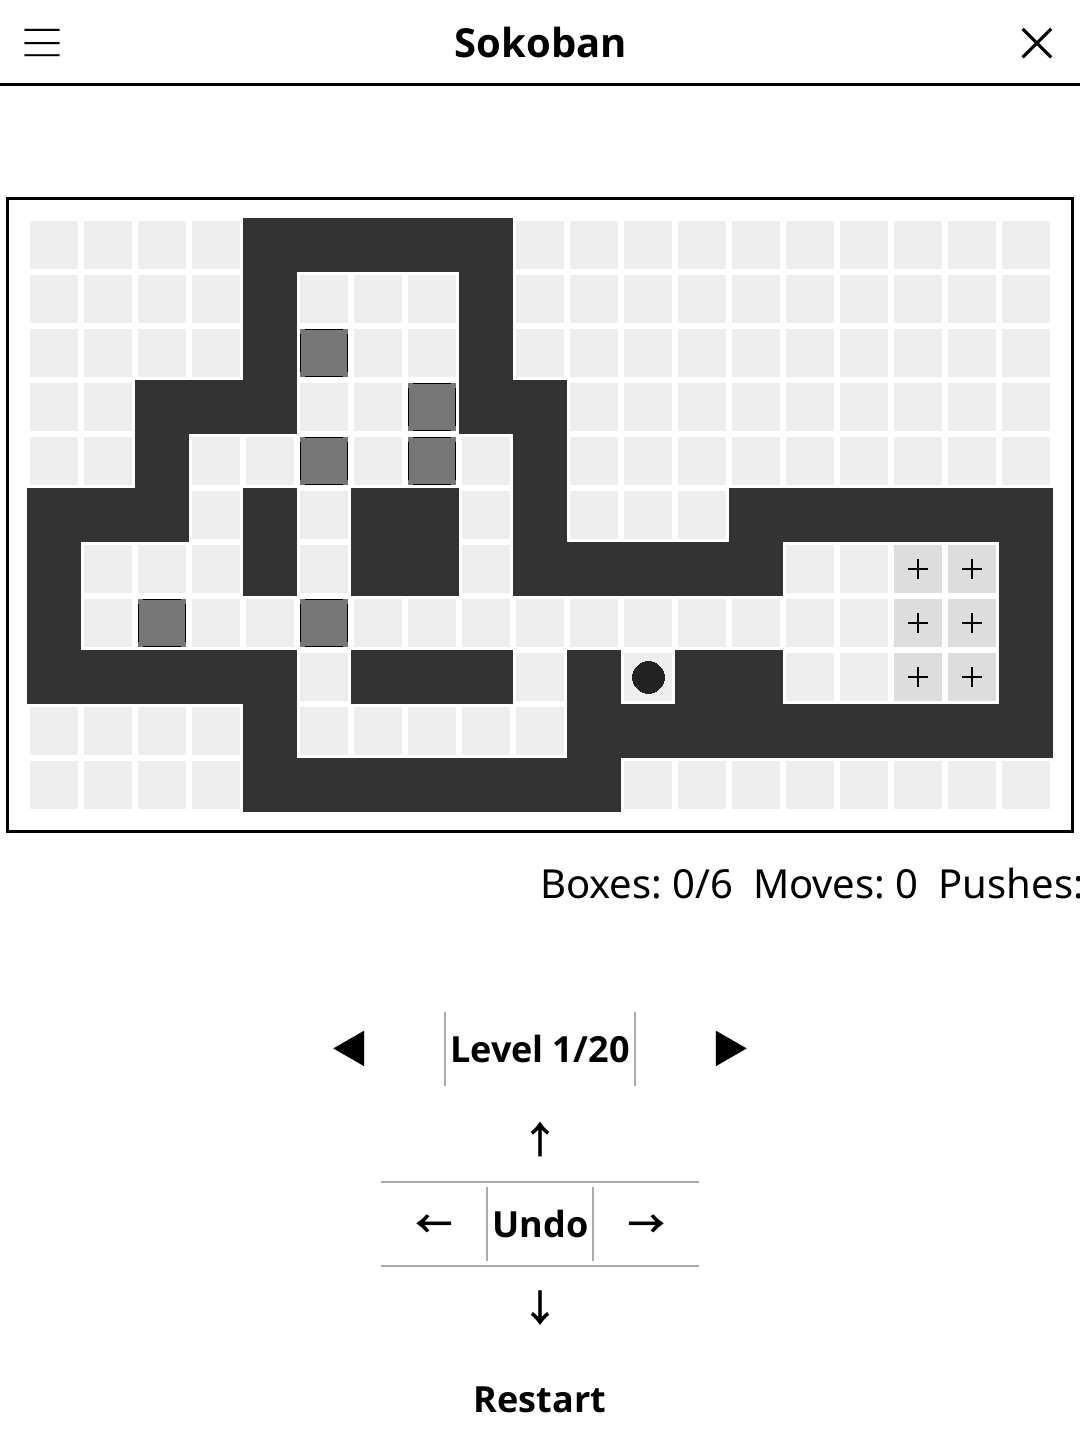
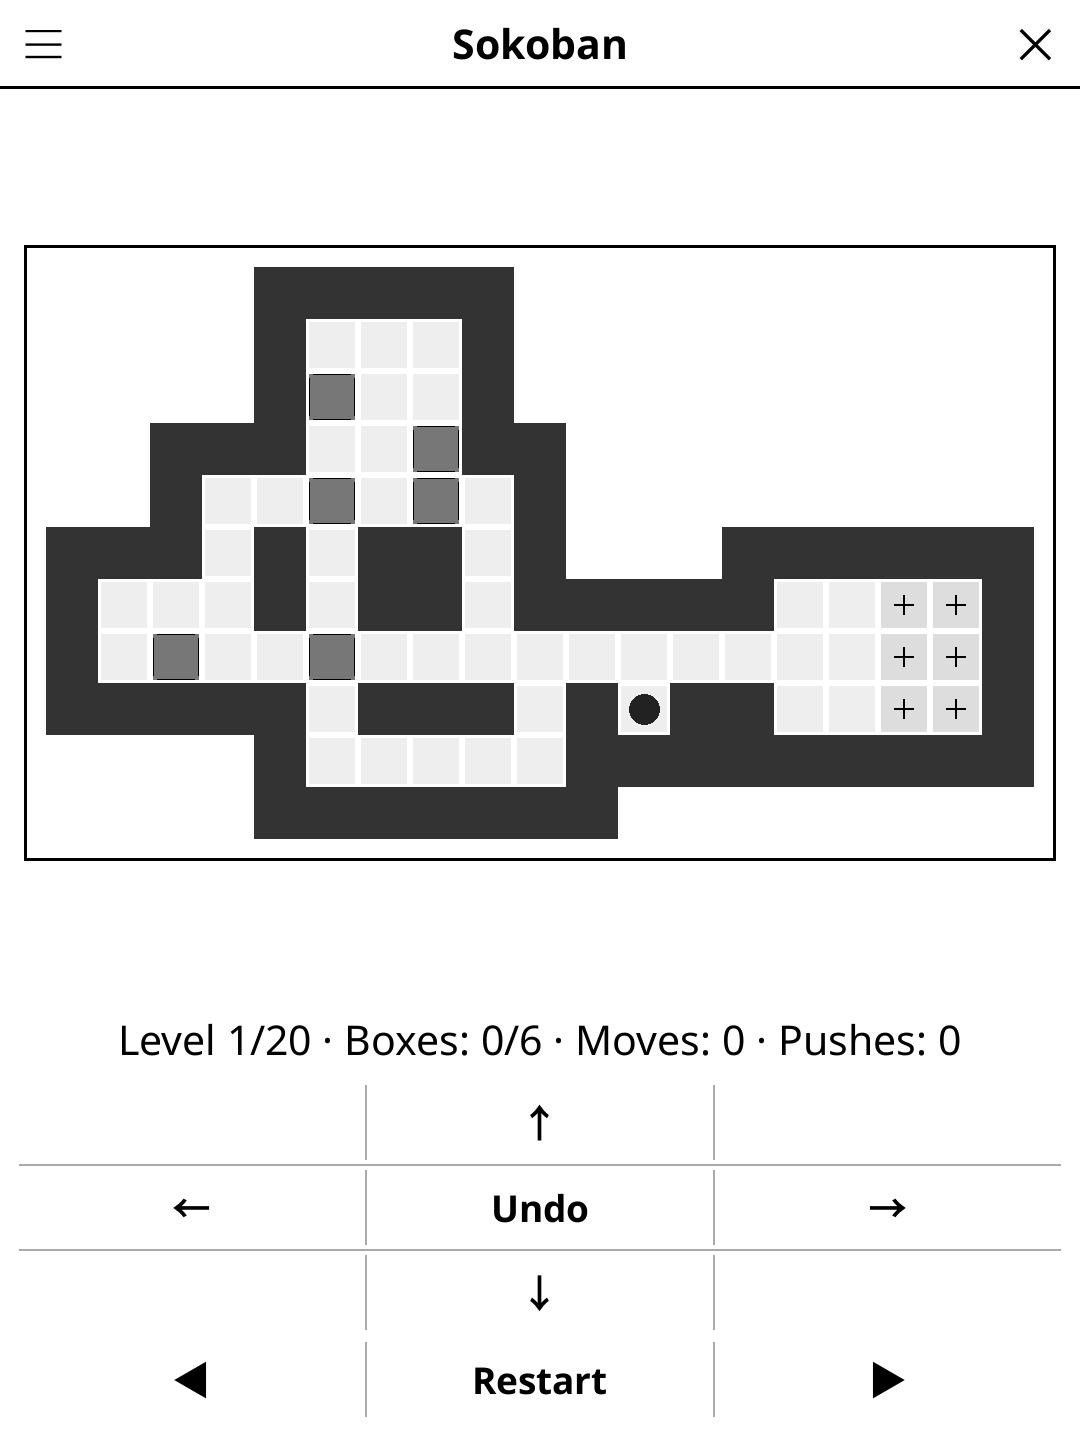
release: 1.2.0 -- redesigned screen, harmonised menu, New game at round end
Screen redesign (full-width action bar, unified pad, status line, larger
board), harmonised title-bar menu, and a "New game" button once the round
is over. See CHANGELOG.md.

diff --git a/CHANGELOG.md b/CHANGELOG.md
@@ -6,6 +6,26 @@ Reconstructed from this repository's git history: each release lists the
 feature and fix commits it carried. Version bumps, screenshot additions
 and CI syncs are left out.
 
+## [1.2.0] - 2026-10-30
+
+### Added
+- "Restart level" in the title-bar menu.
+
+### Changed
+- Redesigned play screen: the level is larger, filling the room the controls
+  leave. The arrows form a proper cross around Undo, and ◀ Restart ▶ sit in a
+  full-width bar below it.
+- The status line reads "Level 3/50 · Boxes: 2/4 · Moves: 31 · Pushes: 9"
+  (the level number used to be a dead button between ◀ and ▶) and wraps in
+  landscape instead of being cut off.
+- The rules describe the actual controls: tap a cell to step towards it or
+  use the arrows, Restart to start the level over, ◀ / ▶ to change level.
+
+### Fixed
+- The blank area around a level was painted as floor, so the level looked
+  surrounded by a field of playable squares. Only the inside of the walls is
+  drawn as floor now.
+
 ## [1.1.19] - 2026-10-07
 
 ### Fixed
